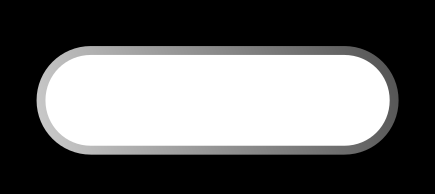
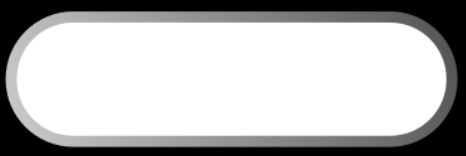
not bad button on the header

diff --git a/src/components/Header.tsx b/src/components/Header.tsx
@@ -38,7 +38,7 @@ const Header: React.FC = () => {
           <img
             src="/assets/pill.png"
             alt="Get Started Button"
-            className="h-20 w-auto object-contain"
+            className="h-20 w-45 object-contain"
           />
           <div className="absolute inset-0 flex items-center justify-center">
             <span className="text-black text-lg font-medium whitespace-nowrap">
